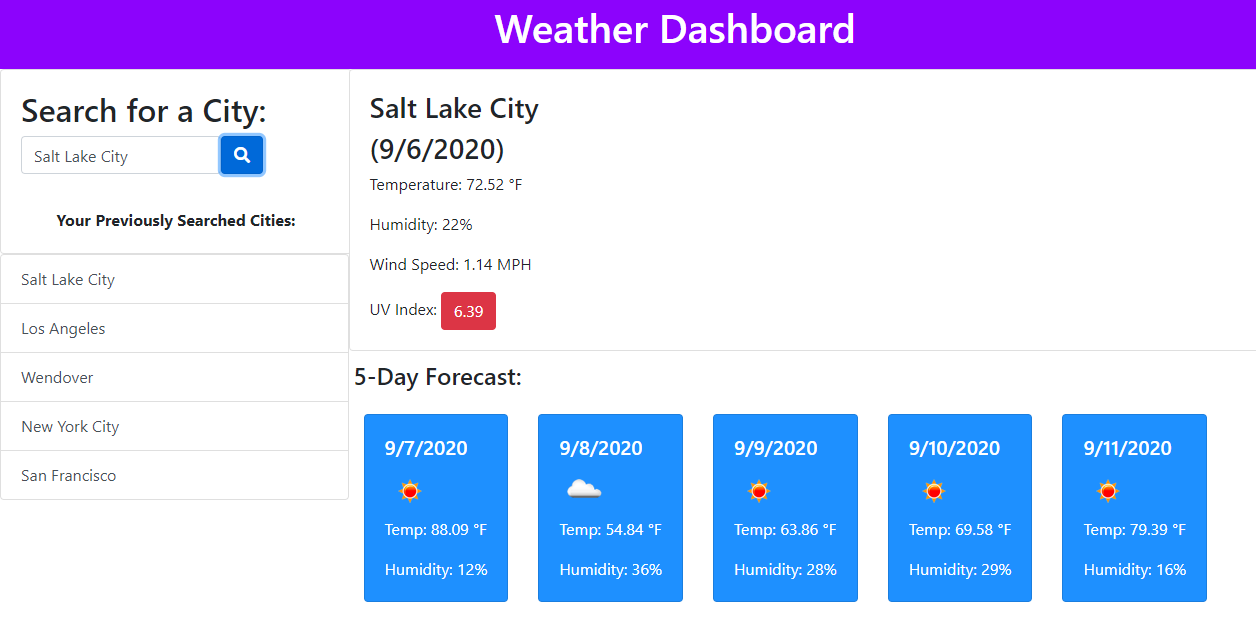
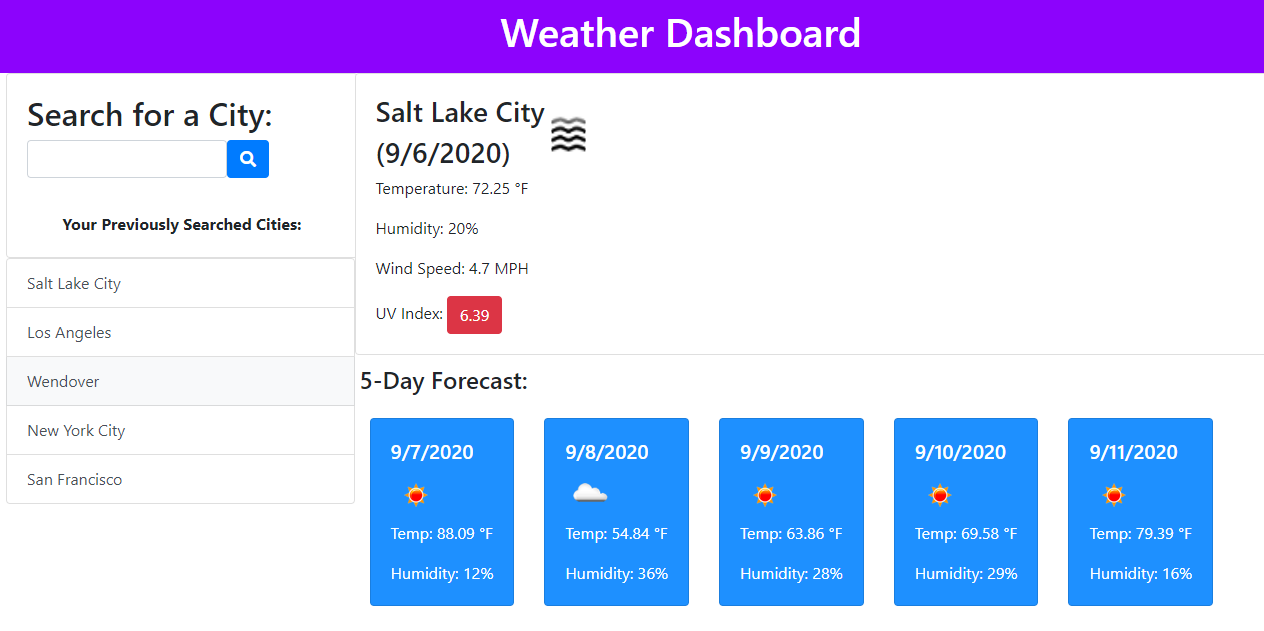
Fixed Pictures

diff --git a/assets/js/script.js b/assets/js/script.js
@@ -53,8 +53,8 @@ function populateCityWeather(city, citySearchList) {
                 "src",
                 "https://openweathermap.org/img/w/" + weather.weather[0].icon + ".png"
             );
-            $("#current-icon").empty();
-            $("#current-icon").append(weatherIcon);
+            $("#currentWeatherIcon").empty();
+            $("#currentWeatherIcon").append(weatherIcon);
 
             // Display the Weather Information
             $("#currentTemp").text("Temperature: " + weather.main.temp + " °F");

diff --git a/index.html b/index.html
@@ -44,7 +44,7 @@
             <div class="col-md-9">
                 <div id="current-weather" class='card'>
                     <div class="card-body">
-                        <div id="cityDate">
+                        <div id="city-date-icon">
                             <span id='cityName'>
                             </span>
                             <span id='currentWeatherIcon'></span>

diff --git a/assets/css/style.css b/assets/css/style.css
@@ -4,11 +4,7 @@ header {
     text-align: center;
     padding: 10px;
 }
-
-#searchCard {
-    width: 22rem;
-}
-
+  
 input {
     width: 100%;
 }
@@ -18,7 +14,7 @@ input {
 }
 
 #currentWeatherIcon,
-#cityDate {
+#city-date-icon {
     display: flex;
     flex-direction: row;
     justify-content: center/space-around/space-between;
